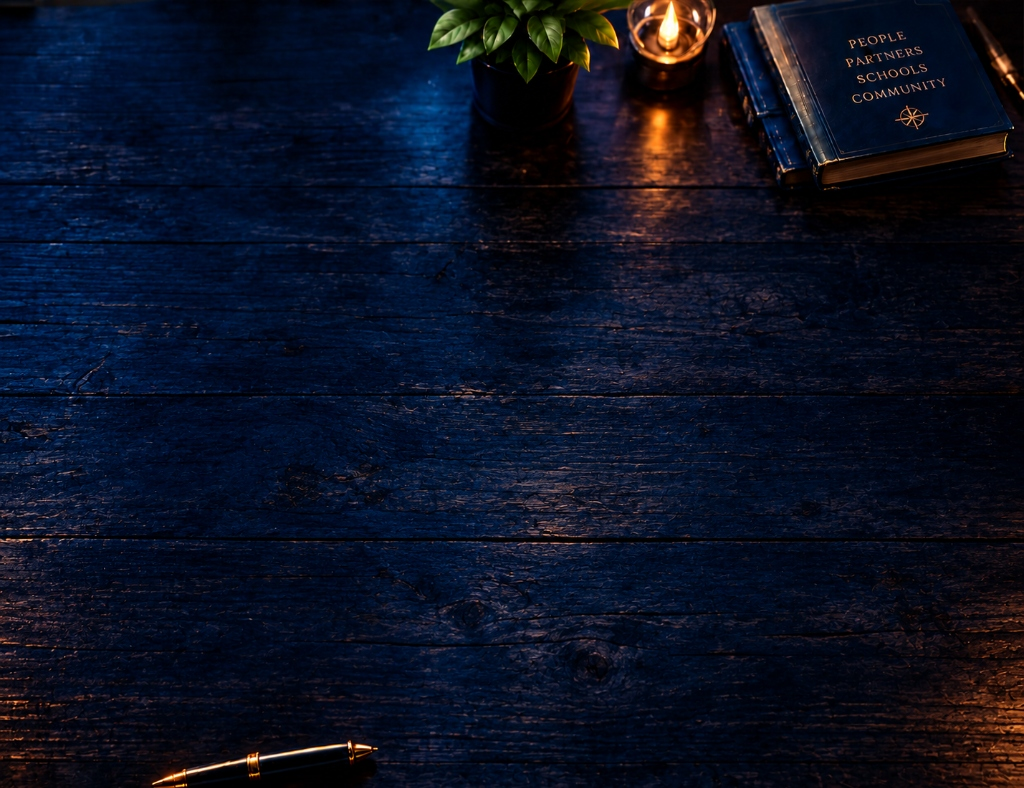
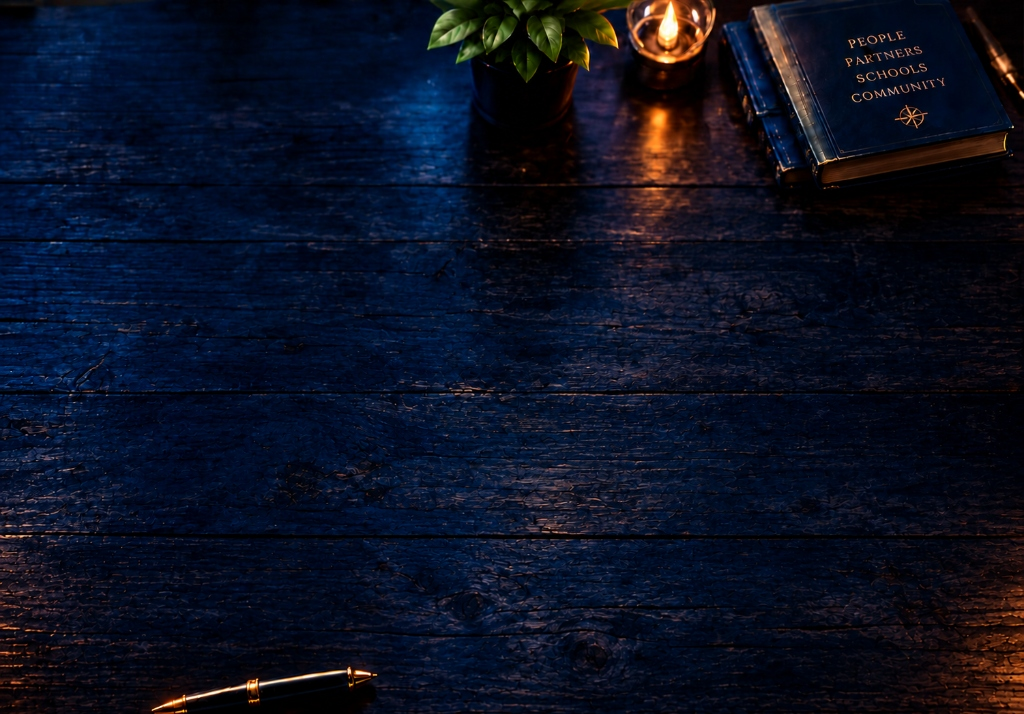
feat(contacts): install updated desk background with 100% 100% sizing to reach page bottom seamlessly

diff --git a/client/src/pages/Contacts.tsx b/client/src/pages/Contacts.tsx
@@ -157,7 +157,7 @@ export default function Contacts() {
         className="min-h-screen w-full relative bg-[#07152B] text-[#F0DFC5] flex flex-col"
         style={{
           backgroundImage: "url('/decor/contacts-desk-bg.jpg')",
-          backgroundSize: "100% auto",
+          backgroundSize: "100% 100%",
           backgroundRepeat: "no-repeat",
           backgroundPosition: "center top",
         }}
